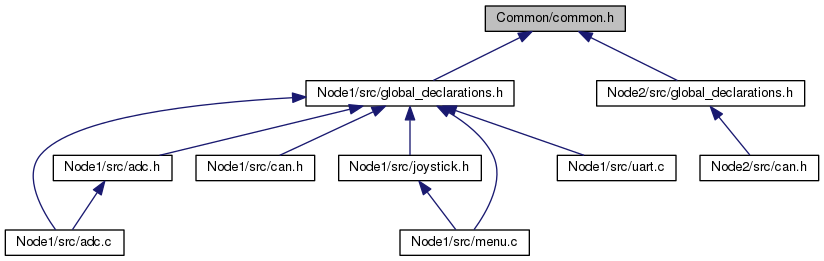
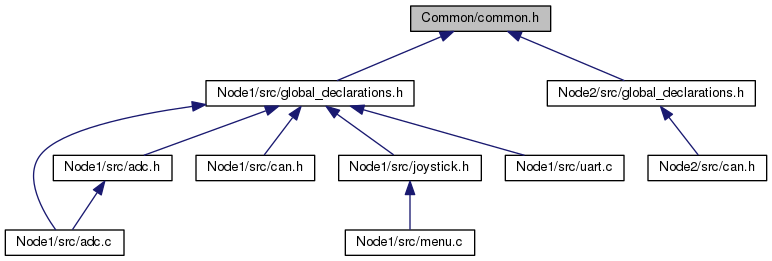
Update docs

diff --git a/docs/html/menu_8c.html b/docs/html/menu_8c.html
@@ -99,18 +99,15 @@ var searchBox = new SearchBox("searchBox", "search",false,'Search');
 <code>#include &quot;oled.h&quot;</code><br />
 <code>#include &quot;<a class="el" href="menu_8h_source.html">menu.h</a>&quot;</code><br />
 <code>#include &quot;joystick.h&quot;</code><br />
-<code>#include &quot;global_declarations.h&quot;</code><br />
-<code>#include &quot;<a class="el" href="Node1_2src_2uart_8h_source.html">uart.h</a>&quot;</code><br />
 </div><div class="textblock"><div class="dynheader">
 Include dependency graph for menu.c:</div>
 <div class="dyncontent">
 <div class="center"><img src="menu_8c__incl.png" border="0" usemap="#Node1_2src_2menu_8c" alt=""/></div>
 <map name="Node1_2src_2menu_8c" id="Node1_2src_2menu_8c">
-<area shape="rect" id="node6" href="oled_8h_source.html" title="oled.h" alt="" coords="497,80,555,107"/>
-<area shape="rect" id="node8" href="menu_8h.html" title="menu.h" alt="" coords="720,80,785,107"/>
-<area shape="rect" id="node9" href="joystick_8h_source.html" title="joystick.h" alt="" coords="292,80,371,107"/>
-<area shape="rect" id="node10" href="Node1_2src_2global__declarations_8h_source.html" title="global_declarations.h" alt="" coords="262,155,406,181"/>
-<area shape="rect" id="node14" href="Node1_2src_2uart_8h.html" title="uart.h" alt="" coords="433,155,488,181"/>
+<area shape="rect" id="node6" href="oled_8h_source.html" title="oled.h" alt="" coords="349,80,407,107"/>
+<area shape="rect" id="node8" href="menu_8h.html" title="menu.h" alt="" coords="572,80,637,107"/>
+<area shape="rect" id="node9" href="joystick_8h_source.html" title="joystick.h" alt="" coords="243,80,321,107"/>
+<area shape="rect" id="node10" href="Node1_2src_2global__declarations_8h_source.html" title="global_declarations.h" alt="" coords="202,155,346,181"/>
 <area shape="rect" id="node13" href="common_8h.html" title="common.h" alt="" coords="421,229,503,256"/>
 </map>
 </div>
@@ -165,7 +162,7 @@ Variables</h2></td></tr>
         </tr>
       </table>
 </div><div class="memdoc">
-<p>Clear all created menus and free memory allocated </p><dl class="todo"><dt><b><a class="el" href="todo.html#_todo000007">Todo:</a></b></dt><dd>{implement this} </dd></dl>
+<p>Clear all created menus and free memory allocated </p><dl class="todo"><dt><b><a class="el" href="todo.html#_todo000006">Todo:</a></b></dt><dd>{implement this} </dd></dl>
 
 </div>
 </div>
@@ -184,7 +181,7 @@ Variables</h2></td></tr>
 </div><div class="memdoc">
 
 <p>remove all submenus of parent from heap </p>
-<dl class="todo"><dt><b><a class="el" href="todo.html#_todo000008">Todo:</a></b></dt><dd>this can't be right? </dd></dl>
+<dl class="todo"><dt><b><a class="el" href="todo.html#_todo000007">Todo:</a></b></dt><dd>this can't be right? </dd></dl>
 
 </div>
 </div>
@@ -234,9 +231,8 @@ Variables</h2></td></tr>
       </table>
 </div><div class="memdoc">
 <p>Allocate a submenu on the heap and make parent-&gt;submenu[i] point there Give submenu specified title and callback. </p>
-<dl class="todo"><dt><b><a class="el" href="todo.html#_todo000003">Todo:</a></b></dt><dd>{check if using MAX_TITLE_LENGTH1 gives problems. Guarantees terminating '\0'} </dd></dl>
-<dl class="todo"><dt><b><a class="el" href="todo.html#_todo000004">Todo:</a></b></dt><dd>this is wrong. Should only return NULL when there is no more room in parent menu. Should also free heap allocated memory in this case. </dd></dl>
-<dl class="todo"><dt><b><a class="el" href="todo.html#_todo000005">Todo:</a></b></dt><dd>{must also be added when the else{...} statement excecutes} </dd></dl>
+<dl class="todo"><dt><b><a class="el" href="todo.html#_todo000003">Todo:</a></b></dt><dd>this is wrong. Should only return NULL when there is no more room in parent menu. Should also free heap allocated memory in this case. </dd></dl>
+<dl class="todo"><dt><b><a class="el" href="todo.html#_todo000004">Todo:</a></b></dt><dd>{must also be added when the else{...} statement excecutes} </dd></dl>
 
 </div>
 </div>
@@ -287,7 +283,7 @@ Variables</h2></td></tr>
         </tr>
       </table>
 </div><div class="memdoc">
-<dl class="todo"><dt><b><a class="el" href="todo.html#_todo000006">Todo:</a></b></dt><dd>{deprecate this} </dd></dl>
+<dl class="todo"><dt><b><a class="el" href="todo.html#_todo000005">Todo:</a></b></dt><dd>{deprecate this} </dd></dl>
 <dl class="deprecated"><dt><b><a class="el" href="deprecated.html#_deprecated000001">Deprecated:</a></b></dt><dd></dd></dl>
 
 </div>
@@ -315,8 +311,9 @@ Variables</h2></td></tr>
         </tr>
       </table>
 </div><div class="memdoc">
-<dl class="todo"><dt><b><a class="el" href="todo.html#_todo000001">Todo:</a></b></dt><dd>{remove? why is this included?} </dd></dl>
-<dl class="todo"><dt><b><a class="el" href="todo.html#_todo000002">Todo:</a></b></dt><dd>{remove, included only for debug purposes} </dd></dl>
+<p>&lt;</p><dl class="todo"><dt><b><a class="el" href="todo.html#_todo000001">Todo:</a></b></dt><dd>remove? why is this included? </dd></dl>
+<pre class="fragment">&lt; \tode remove
+</pre><p> #include "global_declarations.h" #include "uart.h" /*!&lt;</p><dl class="todo"><dt><b><a class="el" href="todo.html#_todo000002">Todo:</a></b></dt><dd>remove, included only for debug purposes </dd></dl>
 <p>root of menu system </p>
 
 </div>

diff --git a/docs/html/menu_8h.html b/docs/html/menu_8h.html
@@ -143,7 +143,7 @@ Functions</h2></td></tr>
 <li>title maximum length is 23</li>
 <li>list of submenus maximum number is 7</li>
 <li>parent</li>
-<li>action callback to be excecuted when this submenu is clicked. If no action is wanted, then menu_action_nothing should be supplied.<dl class="todo"><dt><b><a class="el" href="todo.html#_todo000009">Todo:</a></b></dt><dd>{remove dependency between menu and adc} </dd></dl>
+<li>action callback to be excecuted when this submenu is clicked. If no action is wanted, then menu_action_nothing should be supplied.<dl class="todo"><dt><b><a class="el" href="todo.html#_todo000008">Todo:</a></b></dt><dd>{remove dependency between menu and adc} </dd></dl>
 </li>
 </ul>
 
@@ -206,9 +206,8 @@ Functions</h2></td></tr>
 </dl>
 <dl class="section return"><dt>Returns</dt><dd>pointer to menu allocated on heap. Returns NULL if there was no room in parent.</dd></dl>
 <p>Allocate a submenu on the heap and make parent-&gt;submenu[i] point there Give submenu specified title and callback. </p>
-<dl class="todo"><dt><b><a class="el" href="todo.html#_todo000003">Todo:</a></b></dt><dd>{check if using MAX_TITLE_LENGTH1 gives problems. Guarantees terminating '\0'} </dd></dl>
-<dl class="todo"><dt><b><a class="el" href="todo.html#_todo000004">Todo:</a></b></dt><dd>this is wrong. Should only return NULL when there is no more room in parent menu. Should also free heap allocated memory in this case. </dd></dl>
-<dl class="todo"><dt><b><a class="el" href="todo.html#_todo000005">Todo:</a></b></dt><dd>{must also be added when the else{...} statement excecutes} </dd></dl>
+<dl class="todo"><dt><b><a class="el" href="todo.html#_todo000003">Todo:</a></b></dt><dd>this is wrong. Should only return NULL when there is no more room in parent menu. Should also free heap allocated memory in this case. </dd></dl>
+<dl class="todo"><dt><b><a class="el" href="todo.html#_todo000004">Todo:</a></b></dt><dd>{must also be added when the else{...} statement excecutes} </dd></dl>
 
 </div>
 </div>
@@ -241,8 +240,8 @@ Functions</h2></td></tr>
       </table>
 </div><div class="memdoc">
 <dl class="deprecated"><dt><b><a class="el" href="deprecated.html#_deprecated000002">Deprecated:</a></b></dt><dd>Read direction of joystick from ADC and update active submenu </dd></dl>
-<dl class="todo"><dt><b><a class="el" href="todo.html#_todo000010">Todo:</a></b></dt><dd>{deprecate this function and replace with menu_move_curor} </dd></dl>
-<dl class="todo"><dt><b><a class="el" href="todo.html#_todo000006">Todo:</a></b></dt><dd>{deprecate this} </dd></dl>
+<dl class="todo"><dt><b><a class="el" href="todo.html#_todo000009">Todo:</a></b></dt><dd>{deprecate this function and replace with menu_move_curor} </dd></dl>
+<dl class="todo"><dt><b><a class="el" href="todo.html#_todo000005">Todo:</a></b></dt><dd>{deprecate this} </dd></dl>
 <dl class="deprecated"><dt><b><a class="el" href="deprecated.html#_deprecated000001">Deprecated:</a></b></dt><dd></dd></dl>
 
 </div>

diff --git a/docs/html/common_8h.html b/docs/html/common_8h.html
@@ -98,15 +98,15 @@ This graph shows which files directly or indirectly include this file:</div>
 <div class="dyncontent">
 <div class="center"><img src="common_8h__dep__incl.png" border="0" usemap="#Common_2common_8hdep" alt=""/></div>
 <map name="Common_2common_8hdep" id="Common_2common_8hdep">
-<area shape="rect" id="node2" href="Node1_2src_2global__declarations_8h_source.html" title="Node1/src/global_declarations.h" alt="" coords="306,80,514,107"/>
-<area shape="rect" id="node9" href="Node2_2src_2global__declarations_8h_source.html" title="Node2/src/global_declarations.h" alt="" coords="597,80,805,107"/>
+<area shape="rect" id="node2" href="Node1_2src_2global__declarations_8h_source.html" title="Node1/src/global_declarations.h" alt="" coords="206,80,414,107"/>
+<area shape="rect" id="node9" href="Node2_2src_2global__declarations_8h_source.html" title="Node2/src/global_declarations.h" alt="" coords="547,80,755,107"/>
 <area shape="rect" id="node3" href="adc_8c.html" title="Node1/src/adc.c" alt="" coords="5,229,124,256"/>
 <area shape="rect" id="node4" href="adc_8h.html" title="Node1/src/adc.h" alt="" coords="53,155,172,181"/>
 <area shape="rect" id="node5" href="Node1_2src_2can_8h_source.html" title="Node1/src/can.h" alt="" coords="196,155,315,181"/>
 <area shape="rect" id="node6" href="joystick_8h_source.html" title="Node1/src/joystick.h" alt="" coords="339,155,481,181"/>
-<area shape="rect" id="node7" href="menu_8c.html" title="Node1/src/menu.c" alt="" coords="400,229,529,256"/>
-<area shape="rect" id="node8" href="Node1_2src_2uart_8c.html" title="Node1/src/uart.c" alt="" coords="557,155,676,181"/>
-<area shape="rect" id="node10" href="Node2_2src_2can_8h_source.html" title="Node2/src/can.h" alt="" coords="700,155,819,181"/>
+<area shape="rect" id="node8" href="Node1_2src_2uart_8c.html" title="Node1/src/uart.c" alt="" coords="505,155,624,181"/>
+<area shape="rect" id="node7" href="menu_8c.html" title="Node1/src/menu.c" alt="" coords="345,229,475,256"/>
+<area shape="rect" id="node10" href="Node2_2src_2can_8h_source.html" title="Node2/src/can.h" alt="" coords="648,155,767,181"/>
 </map>
 </div>
 </div>
